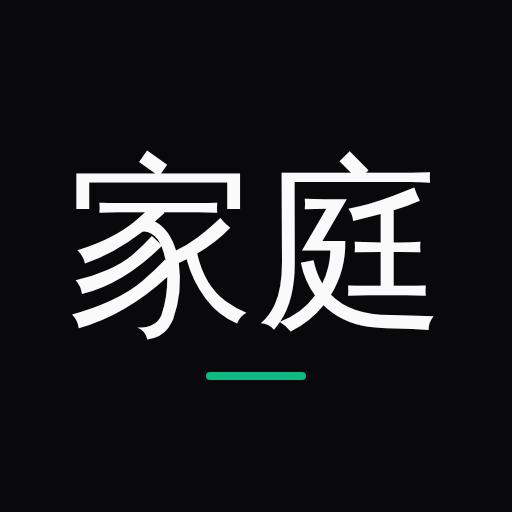
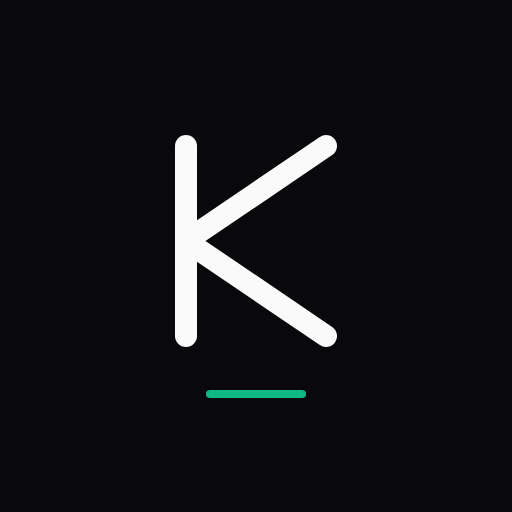
feat: replace the 家庭 wordmark with a geometric K monogram
家庭 had no connection to the app for this user. New mark: a K drawn
as three hairline strokes — one upright, two diagonals meeting it at
a single point — in the same stroke-width-1.5 line language as the
rest of the icon set, rather than a letterform lifted from a typeface.
Paired with "katei" in Inter Light, wide tracking. Defined once in
Logo.tsx; every render site (splash, sign-in, app header, PWA icons)
imports it instead of redrawing the mark.

icon.svg now uses real stroke paths instead of a <text> element that
depended on a CJK font installed nowhere in the repo, so the icon
previously rendered differently depending on the host's font fallback
— fixed as a side effect. PWA/apple-touch PNGs regenerated from the
new SVG at their existing sizes.

The splash's stroke-dasharray draw (upright first, then each diagonal)
is the app's one deliberate signature animation; reduced-motion shows
the complete mark immediately rather than a partial stroke. Verified
in a real browser: mid-draw frame, completed splash, sign-in in both
themes, the app header at 390px, and a reduced-motion context — plus
grepped the repo clean of the old wordmark outside intentional
etymology prose in BRAND.md.

Changed region(s): [[0.125, 0.25, 0.8438, 0.6875], [0.4062, 0.7188, 0.5938, 0.7812]]

diff --git a/frontend/src/components/Logo.tsx b/frontend/src/components/Logo.tsx
@@ -1,0 +1,67 @@
+// The Katei mark: a K drawn as three hairline strokes — one upright, two
+// diagonals meeting it at the same point. Set in the app's icon language
+// (stroke-width 1.5, round caps, currentColor) so it sits beside the interface
+// rather than on top of it. The single source of truth for every render site;
+// see BRAND.md §1.
+
+interface LogoProps {
+  /** Height of the mark in rem-ish Tailwind units; the wordmark scales with it. */
+  size?: 'sm' | 'md' | 'lg';
+  /** Lay the wordmark "katei" beside the mark. */
+  withWordmark?: boolean;
+  /** Applied to the mark's <svg> — used by the splash to drive its draw. */
+  markClassName?: string;
+  className?: string;
+}
+
+const markSize: Record<NonNullable<LogoProps['size']>, string> = {
+  sm: 'h-5 w-5',
+  md: 'h-7 w-7',
+  lg: 'h-12 w-12',
+};
+
+const wordSize: Record<NonNullable<LogoProps['size']>, string> = {
+  sm: 'text-base',
+  md: 'text-xl',
+  lg: 'text-4xl',
+};
+
+const gap: Record<NonNullable<LogoProps['size']>, string> = {
+  sm: 'gap-2',
+  md: 'gap-2.5',
+  lg: 'gap-4',
+};
+
+// The three strokes, on a 24-box with a 4-unit margin. The diagonals meet the
+// upright at its midpoint (4,12), so the joint is a single point rather than a
+// crossing — the detail that keeps it reading as a monogram, not a letter K
+// from a typeface.
+export function LogoMark({ className = '' }: { className?: string }) {
+  return (
+    <svg
+      aria-hidden
+      viewBox="0 0 24 24"
+      fill="none"
+      stroke="currentColor"
+      strokeWidth={1.5}
+      strokeLinecap="round"
+      className={className}
+    >
+      <path className="logo-stroke logo-stroke-1" d="M4 3.5v17" />
+      <path className="logo-stroke logo-stroke-2" d="M4 12L19 3.5" />
+      <path className="logo-stroke logo-stroke-3" d="M4 12l15 8.5" />
+    </svg>
+  );
+}
+
+export function Logo({ size = 'md', withWordmark = false, markClassName = '', className = '' }: LogoProps) {
+  if (!withWordmark) {
+    return <LogoMark className={`${markSize[size]} ${markClassName} ${className}`} />;
+  }
+  return (
+    <span className={`inline-flex items-center ${gap[size]} ${className}`}>
+      <LogoMark className={`${markSize[size]} flex-shrink-0 ${markClassName}`} />
+      <span className={`${wordSize[size]} font-light lowercase tracking-[0.2em]`}>katei</span>
+    </span>
+  );
+}

diff --git a/frontend/src/index.css b/frontend/src/index.css
@@ -134,15 +134,24 @@
   }
 }
 
-/* Start-up splash animation */
-@keyframes splash-mark-in {
+/* Start-up splash animation. The monogram draws itself one stroke at a time —
+   upright first, then the two diagonals out from the joint — then the wordmark
+   fades up and the emerald underline draws. */
+@keyframes splash-stroke-draw {
+  from {
+    stroke-dashoffset: var(--logo-len);
+  }
+  to {
+    stroke-dashoffset: 0;
+  }
+}
+
+@keyframes splash-lockup-in {
   from {
     opacity: 0;
-    transform: scale(0.92);
   }
   to {
     opacity: 1;
-    transform: scale(1);
   }
 }
 
@@ -155,19 +164,40 @@
   }
 }
 
-.splash-mark {
-  animation: splash-mark-in 700ms cubic-bezier(0.22, 1, 0.36, 1) both;
+.splash-lockup {
+  animation: splash-lockup-in 500ms cubic-bezier(0.22, 1, 0.36, 1) both;
+}
+
+/* 26 comfortably exceeds each stroke's length (17 and ~17.2 units), so the
+   dash fully hides the path before it draws. */
+.splash-mark .logo-stroke {
+  --logo-len: 26;
+  stroke-dasharray: var(--logo-len);
+  animation: splash-stroke-draw 600ms cubic-bezier(0.22, 1, 0.36, 1) both;
+}
+.splash-mark .logo-stroke-2 {
+  animation-delay: 180ms;
+}
+.splash-mark .logo-stroke-3 {
+  animation-delay: 300ms;
 }
 
 .splash-underline {
   width: 4rem;
-  animation: splash-underline-draw 700ms cubic-bezier(0.22, 1, 0.36, 1) 200ms both;
+  animation: splash-underline-draw 700ms cubic-bezier(0.22, 1, 0.36, 1) 500ms both;
 }
 
 @media (prefers-reduced-motion: reduce) {
-  .splash-mark {
-    animation: splash-mark-in 300ms ease-out both;
-    transform: none;
+  .splash-lockup {
+    animation: splash-lockup-in 300ms ease-out both;
+  }
+  /* No drawing: the strokes are simply there. */
+  .splash-mark .logo-stroke,
+  .splash-mark .logo-stroke-2,
+  .splash-mark .logo-stroke-3 {
+    animation: none;
+    stroke-dasharray: none;
+    stroke-dashoffset: 0;
   }
   .splash-underline {
     animation: none;

diff --git a/frontend/src/components/Splash.tsx b/frontend/src/components/Splash.tsx
@@ -1,12 +1,15 @@
+import { Logo } from './Logo';
+
 interface SplashProps {
   /** When true the splash begins its fade-out, then unmounts via onDone. */
   leaving: boolean;
   onDone: () => void;
 }
 
-// Branded first-load animation: the 家庭 wordmark fades + scales in over a
-// full-bleed dark field, with an emerald underline drawing beneath it. Honors
-// prefers-reduced-motion via the keyframes in index.css (quick fade only).
+// Branded first-load animation: the monogram's three strokes draw themselves in
+// over a full-bleed dark field, the wordmark fades up, and an emerald underline
+// draws beneath. Honors prefers-reduced-motion via the keyframes in index.css
+// (quick fade, no drawing).
 export function Splash({ leaving, onDone }: SplashProps) {
   return (
     <div
@@ -19,9 +22,7 @@ export function Splash({ leaving, onDone }: SplashProps) {
       aria-hidden="true"
     >
       <div className="flex flex-col items-center">
-        <span className="splash-mark text-5xl font-light tracking-widest text-zinc-100">
-          家庭
-        </span>
+        <Logo size="lg" withWordmark markClassName="splash-mark" className="splash-lockup text-zinc-100" />
         <span className="splash-underline mt-3 h-px bg-emerald-500" />
       </div>
     </div>

diff --git a/frontend/src/components/AuthGate.tsx b/frontend/src/components/AuthGate.tsx
@@ -5,6 +5,7 @@ import { api } from '../lib/api';
 import { usePreferences } from '../lib/preferences';
 import { COUNTRIES, CURRENCIES, TIMEZONES, countryByCode, DEFAULT_COUNTRY } from '../lib/countries';
 import { SUPPORTED_LANGUAGES } from '../lib/i18n';
+import { Logo } from './Logo';
 
 const labelCls = 'mb-1.5 block text-xs font-medium uppercase tracking-widest text-zinc-500';
 const fieldCls =
@@ -93,9 +94,11 @@ export function AuthGate() {
   return (
     <div className="flex min-h-full items-center justify-center px-4">
       <div className="w-full max-w-sm">
-        <div className="mb-8 text-center">
-          <h1 className="text-3xl font-light tracking-wide text-zinc-100">家庭</h1>
-          <p className="mt-2 text-xs uppercase tracking-widest text-zinc-500">Katei</p>
+        <div className="mb-8 flex justify-center">
+          <h1 className="text-zinc-100">
+            <Logo size="lg" withWordmark />
+            <span className="sr-only">Katei</span>
+          </h1>
         </div>
 
         <div className="rounded-2xl border border-zinc-800/60 bg-zinc-900 p-6">

diff --git a/frontend/src/components/AccountMenu.tsx b/frontend/src/components/AccountMenu.tsx
@@ -93,11 +93,11 @@ export function AccountMenu({ user, onOpenAccount, onOpenSettings }: AccountMenu
             className="absolute right-0 top-full z-50 mt-2 w-56 overflow-hidden rounded-2xl border border-zinc-800/60 bg-zinc-900 shadow-2xl"
           >
             {/* Identity line — the avatar already lives on the trigger. Shows
-                the household's chosen name (家庭 if unnamed) + the member role. */}
+                the household's chosen name (Katei if unnamed) + the member role. */}
             <div className="border-b border-zinc-800/60 px-4 py-3">
               <p className="truncate text-sm text-zinc-100">{user.name}</p>
               <p className="mt-0.5 truncate text-xs text-zinc-500">
-                {prefs.household_name || '家庭'}
+                {prefs.household_name || 'Katei'}
                 {user.role === 'admin' ? ` · ${t('household.admin')}` : ''}
               </p>
             </div>

diff --git a/frontend/src/App.tsx b/frontend/src/App.tsx
@@ -7,6 +7,7 @@ import { Modal } from './components/Modal';
 import { SettingsForm } from './components/SettingsForm';
 import { AccountForm } from './components/AccountForm';
 import { Splash } from './components/Splash';
+import { Logo } from './components/Logo';
 import { AccountMenu } from './components/AccountMenu';
 import { NotificationBell } from './components/NotificationBell';
 import { useAuth } from './lib/auth';
@@ -66,7 +67,7 @@ export default function App() {
     <div className="flex h-full flex-col bg-zinc-950">
       {/* Slim account header */}
       <header className="flex items-center justify-between border-b border-zinc-800/60 px-4 py-2.5">
-        <span className="text-base font-light tracking-widest text-zinc-300">家庭</span>
+        <Logo size="sm" withWordmark className="text-zinc-300" />
         <div className="flex items-center gap-1">
           <NotificationBell />
           <AccountMenu

diff --git a/backend/src/routes/settings.ts b/backend/src/routes/settings.ts
@@ -150,7 +150,7 @@ export const settingsRoutes: FastifyPluginAsync = async (app) => {
     let delivered = 0;
     for (const sub of subs) {
       try {
-        if ((await sendPush(sub, { title: 'Katei', body: 'Test notification 家庭', url: '/' })) === 'ok') delivered += 1;
+        if ((await sendPush(sub, { title: 'Katei', body: 'Test notification', url: '/' })) === 'ok') delivered += 1;
       } catch { /* ignore a single device's failure */ }
     }
     if (!delivered) return reply.code(502).send({ error: 'Could not deliver to any device' });

diff --git a/frontend/src/components/AccountForm.tsx b/frontend/src/components/AccountForm.tsx
@@ -80,7 +80,7 @@ export function AccountForm({ onClose }: { onClose: () => void }) {
         <div className="min-w-0">
           <p className="truncate text-sm text-zinc-100">{name || user.name}</p>
           <p className="text-xs text-zinc-500">
-            家庭{user.role === 'admin' ? ` · ${t('household.admin')}` : ''}
+            Katei{user.role === 'admin' ? ` · ${t('household.admin')}` : ''}
           </p>
         </div>
       </div>

diff --git a/frontend/index.html b/frontend/index.html
@@ -3,7 +3,7 @@
   <head>
     <meta charset="UTF-8" />
     <meta name="viewport" content="width=device-width, initial-scale=1.0, viewport-fit=cover" />
-    <title>Katei 家庭</title>
+    <title>Katei</title>
     <meta name="description" content="Household obligation awareness system" />
     <meta name="theme-color" content="#09090b" />
     <link rel="icon" type="image/svg+xml" href="/icon.svg" />

diff --git a/backend/src/routes/calendar.ts b/backend/src/routes/calendar.ts
@@ -31,6 +31,6 @@ export const calendarRoutes: FastifyPluginAsync = async (app) => {
     reply
       .header('Content-Type', 'text/calendar; charset=utf-8')
       .header('Content-Disposition', 'inline; filename="katei.ics"');
-    return reply.send(buildICS(rows, { name: 'Katei 家庭' }));
+    return reply.send(buildICS(rows, { name: 'Katei' }));
   });
 };

diff --git a/frontend/vite.config.ts b/frontend/vite.config.ts
@@ -16,7 +16,7 @@ export default defineConfig({
       registerType: 'autoUpdate',
       includeAssets: ['icon.svg', 'apple-touch-icon.png'],
       manifest: {
-        name: 'Katei 家庭',
+        name: 'Katei',
         short_name: 'Katei',
         description: 'Household obligation awareness system',
         theme_color: '#09090b',

diff --git a/frontend/src/sw.ts b/frontend/src/sw.ts
@@ -27,7 +27,7 @@ self.addEventListener('push', (event: PushEvent) => {
   } catch {
     data = { body: event.data?.text() };
   }
-  const title = data.title || 'Katei 家庭';
+  const title = data.title || 'Katei';
   event.waitUntil(
     self.registration.showNotification(title, {
       body: data.body || '',
